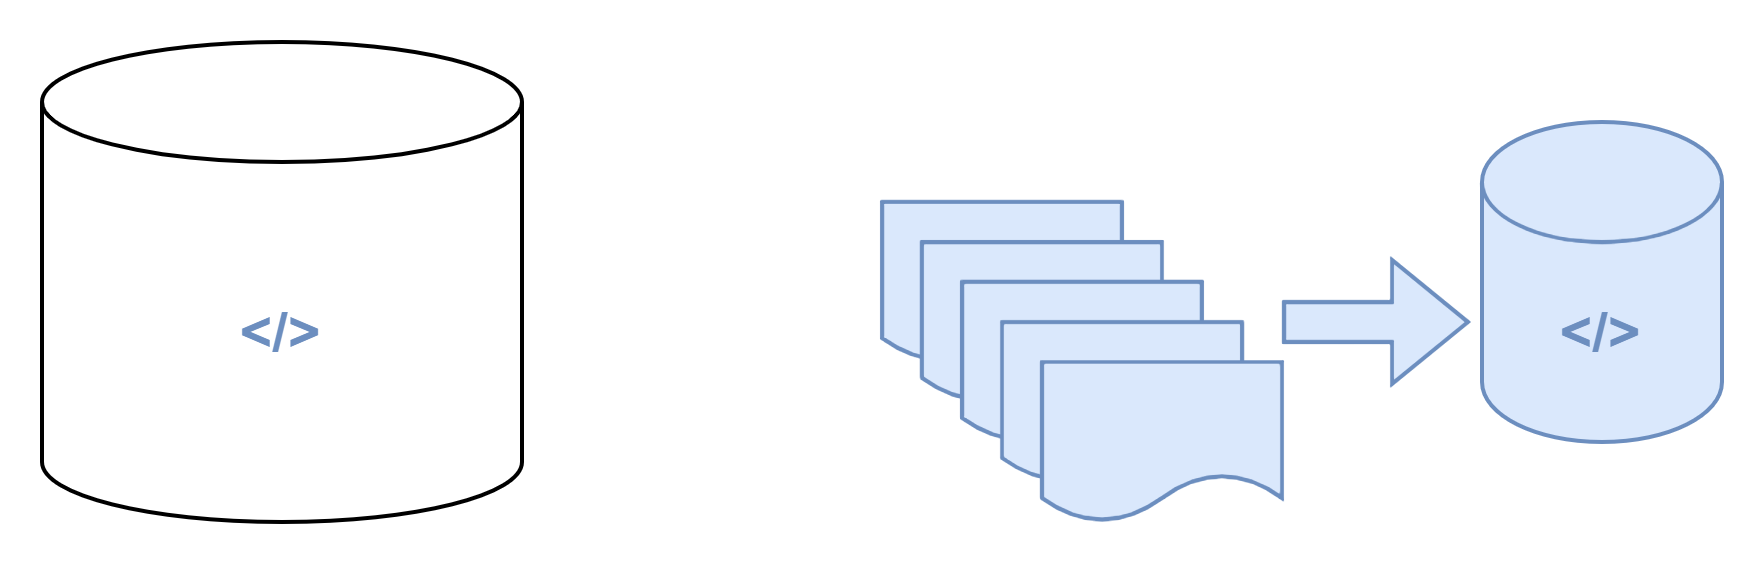
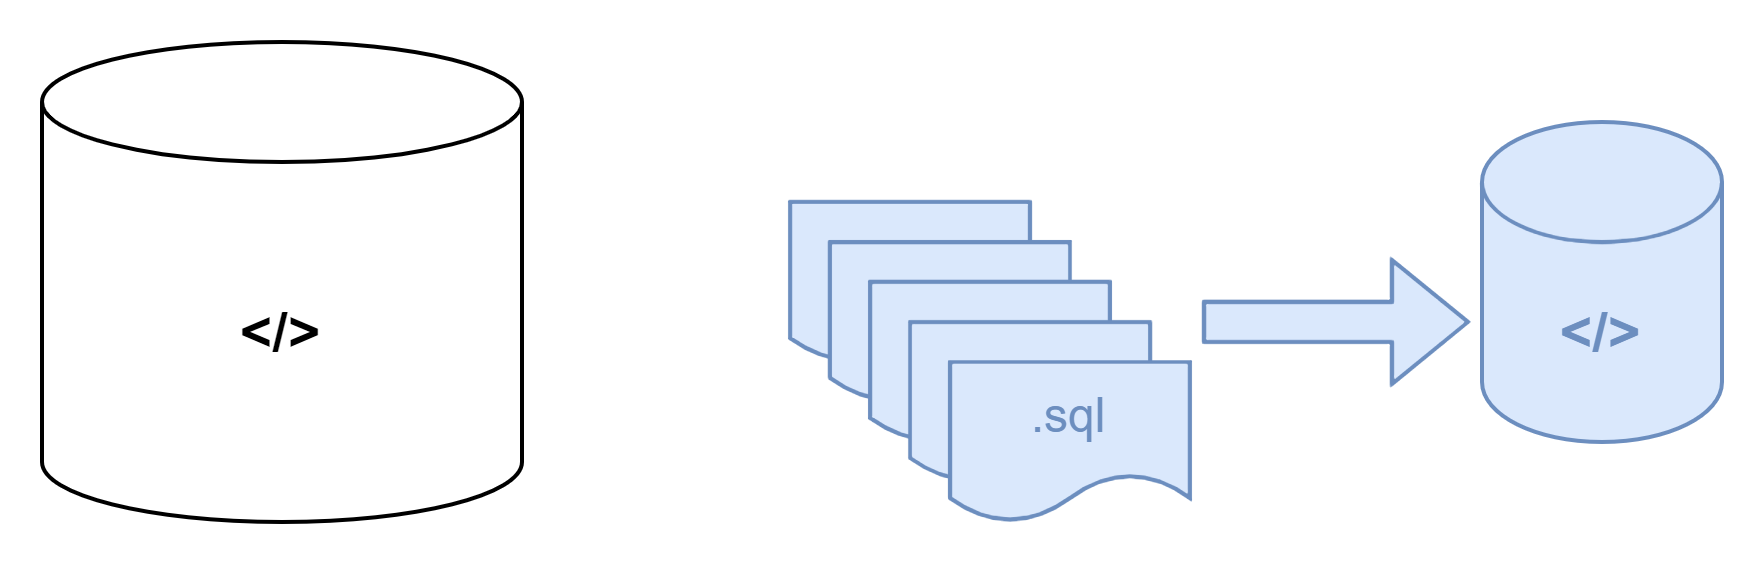
Added images

Changed region(s): [[0.4365, 0.3316, 0.7483, 0.9344], [0.1247, 0.5426, 0.1871, 0.633]]

diff --git a/dbpopr/src/components/code/CodeComponent.tsx b/dbpopr/src/components/code/CodeComponent.tsx
@@ -5,6 +5,8 @@ import {siteApi, SiteResponse} from "../../api/siteApi";
 import compare_source from "./compare_source.png"
 import download_source from "./download_source.png"
 import upload_target from "./upload_target.png"
+import download_target from "./download_target.png"
+import compare_target from "./compare_target.png"
 
 
 function Section({title, description, to, img}: {
@@ -21,9 +23,7 @@ function Section({title, description, to, img}: {
                 <div className={"ms-5 button-bar"}>
                     <NavLink to={to}>
                         <button className={"btn btn-primary"}>
-                            Next
-                            &nbsp;
-                            <i className={"fa fa-arrow-right"}/>
+                            Select
                         </button>
                     </NavLink>
                 </div>
@@ -51,7 +51,7 @@ export default function CodeComponent() {
 
             {siteResponse?.hasSource && (
                 <Section title={"Compare Source"}
-                         description={"Compare the source database with the local files"}
+                         description={"Compare the tables and sprocs in the source database with the local SQL files"}
                          to={"/code/source/compare"}
                          img={compare_source}
                 />
@@ -59,17 +59,35 @@ export default function CodeComponent() {
 
             {siteResponse?.hasSource && (
                 <Section title={"Download Source"}
-                         description={"Download the source database to the local filesystem"}
+                         description={"Download the tables and sprocs from the source database to the local SQL files"}
                          to={"/code/source/download"}
                          img={download_source}
                 />
             )}
 
+            {siteResponse?.hasSource && siteResponse?.hasTarget && <hr/>}
+
             {siteResponse?.hasTarget && (
                 <Section title={"Upload to Target"}
-                         description={"Create"}
+                         description={"Upload the tables and sprocs from the SQL files to the Target database"}
                          to={"/code/target/upload"}
                          img={upload_target}
+                />
+            )}
+
+            {siteResponse?.hasTarget && (
+                <Section title={"Download from Target"}
+                         description={"Download the tables and sprocs from the Target database to the SQL files"}
+                         to={"/code/target/download"}
+                         img={download_target}
+                />
+            )}
+
+            {siteResponse?.hasTarget && (
+                <Section title={"Compare Target"}
+                         description={"Compare the tables and sprocs in the Target database with the local SQL files"}
+                         to={"/code/target/compare"}
+                         img={compare_target}
                 />
             )}
 

diff --git a/dbpopr/src/components/download/DownloadComponent.tsx b/dbpopr/src/components/download/DownloadComponent.tsx
@@ -21,7 +21,7 @@ function Section({title, description, to, img}: {
                 <div className={"ms-5 button-bar"}>
                     <NavLink to={to}>
                         <button className={"btn btn-primary"}>
-                            Next
+                            Select
                         </button>
                     </NavLink>
                 </div>
@@ -61,6 +61,8 @@ export default function DownloadComponent() {
                      to={"/download/bulk"}
                      img={bulk_download}/>
         )}
+
+        {siteResponse?.hasSource && siteResponse?.hasTarget && <hr/>}
 
         {siteResponse?.hasTarget && (
             <Section title={"Full Download"}
